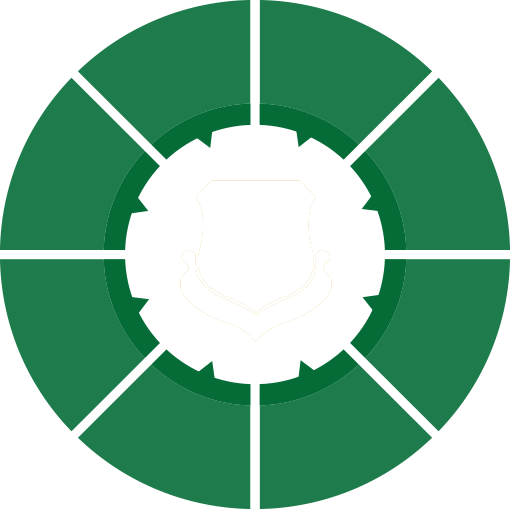
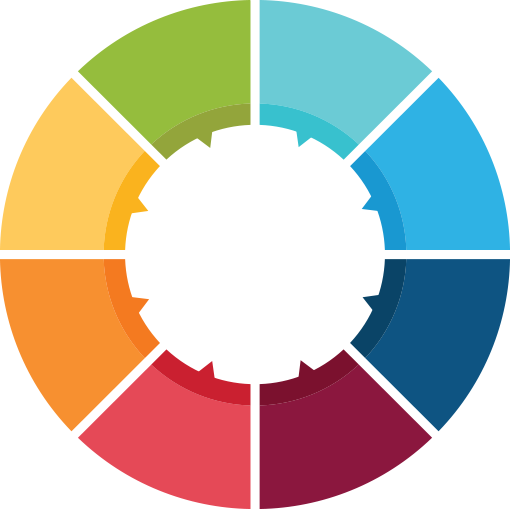
BUP update

diff --git a/bup/css/style.min.css b/bup/css/style.min.css
@@ -1,1 +1,1 @@
-@import url(https://fonts.googleapis.com/css?family=Ubuntu);.admi,.middle{text-align:center}*{position:relative;-moz-box-sizing:border-box;-webkit-box-sizing:border-box;box-sizing:border-box;margin:0;padding:0;list-style:none}body{height:100%;background:url(../images/header.png) bottom right no-repeat fixed!important;color:#fff}@media (max-width:576px){body{background:url(../images/header.png) bottom center no-repeat fixed!important}}.header-sec{position:fixed;background:url(../images/header_bg.png) top left no-repeat fixed!important;padding:15px 0;left:0;right:0;height:105px}.admi,.header .res-nav{position:absolute;right:15px}.header .fa-envelope{color:#006c32;font-size:30px;margin-top:14px}.header .fa-envelope:hover{color:#d5a929}.header .top-link{margin-top:15px;color:#006c32;font-weight:700;float:right}.header .top-link:hover{color:#d5a929}@media (max-width:576px){.header-sec{height:105px;position:absolute;background:url(../images/header_bg.png) top left no-repeat!important}.header .top-link{display:none}}.header .res-nav{font-size:30px;z-index:3;top:0;display:none;float:right}.header .res-nav a{color:#4CAF50;text-decoration:none;padding:15px;display:inline-block;text-shadow:0 1px 0 #fff}.header .res-nav a:hover{color:#d5a929}.admi{bottom:15px}.footer,.overly{left:0;right:0;bottom:0}@media (max-width:576px){.header .res-nav{display:block}.admi{position:relative;height:auto;display:none}}.logo{width:150px}.overly{position:fixed;top:0;background:rgba(0,0,0,.5);z-index:1;height:100vh;display:none}.btn-success{-webkit-border-radius:0!important;border-radius:0!important}.portal-link{padding:0;margin-bottom:15px;margin-top:35px;z-index:1}@media (max-width:576px){.portal-link{display:none;position:fixed;top:-35px;left:0;background:#4CAF50;height:100vh}}.portal-link li{padding:0;margin:0}.portal-link li a{background:-webkit-gradient(linear,left top,right top,from(#006c32),to(rgba(0,108,50,.5)));background:-webkit-linear-gradient(left,#006c32 0,rgba(0,108,50,.5) 100%);background:linear-gradient(to right,#006c32 0,rgba(0,108,50,.5) 100%);filter:progid:DXImageTransform.Microsoft.gradient( startColorstr='#006c32', endColorstr='#00006c32', GradientType=1 );display:block;padding:3px 15px;margin-bottom:5px;color:#fff;font-size:14px;text-decoration:none}.portal-link li a:hover{color:#d5a929;background:#006c32}@media (max-width:576px){.portal-link li a{padding:10px 15px;margin-bottom:1px}}.middle{max-width:400px;margin:0 auto}.middle .graph{width:400px;height:400px;position:absolute;top:0;left:0}@media (max-width:576px){.middle{margin-bottom:15px;max-width:300px}.middle .graph{width:300px;height:300px}}.middle .nav-table{width:400px;height:400px}@media (max-width:576px){.middle .nav-table{width:300px;height:300px}}.middle .nav-table td{width:25%;height:25%;font-size:13px;font-weight:600}.middle .nav-table td a{color:#d5a929;text-decoration:none;-webkit-transition:all .5s ease;transition:all .5s ease;text-shadow:1px 1px 1px #006c32}.middle .nav-table td a:hover{color:#fff;-webkit-transition:all .5s ease;transition:all .5s ease}.middle .nav-table td .img-circle{width:50%;-webkit-transform:scale(1);-ms-transform:scale(1);transform:scale(1);-webkit-transition:all .5s ease;transition:all .5s ease}.middle .nav-table td .img-circle:hover{-webkit-transform:scale(1.2);-ms-transform:scale(1.2);transform:scale(1.2);-webkit-transition:all .5s ease;transition:all .5s ease}.middle .nav-table .img-center{width:50%}.middle .nav-table .trn1{-webkit-transform:scale(1) rotate(-22deg);-ms-transform:scale(1) rotate(-22deg);transform:scale(1) rotate(-22deg);display:block;padding-right:20px}.middle .nav-table .trn2{-webkit-transform:scale(1) rotate(22deg);-ms-transform:scale(1) rotate(22deg);transform:scale(1) rotate(22deg);display:block;padding-left:20px}.middle .nav-table .trn3{-webkit-transform:scale(1) rotate(-68deg);-ms-transform:scale(1) rotate(-68deg);transform:scale(1) rotate(-68deg);display:block;padding-left:20px}.middle .nav-table .trn4{-webkit-transform:scale(1) rotate(68deg);-ms-transform:scale(1) rotate(68deg);transform:scale(1) rotate(68deg);display:block;padding-right:20px}.middle .nav-table .trn5{-webkit-transform:scale(1) rotate(-112deg);-ms-transform:scale(1) rotate(-112deg);transform:scale(1) rotate(-112deg);display:block;padding-right:20px}.middle .nav-table .trn6{-webkit-transform:scale(1) rotate(112deg);-ms-transform:scale(1) rotate(112deg);transform:scale(1) rotate(112deg);display:block;padding-left:20px}.middle .nav-table .trn7{-webkit-transform:scale(1) rotate(22deg);-ms-transform:scale(1) rotate(22deg);transform:scale(1) rotate(22deg);display:block;padding-right:20px}.middle .nav-table .trn8{-webkit-transform:scale(1) rotate(-22deg);-ms-transform:scale(1) rotate(-22deg);transform:scale(1) rotate(-22deg);display:block;padding-left:20px}@media (max-width:576px){.middle .nav-table td{font-size:10px;font-weight:900}.middle .nav-table .trn1,.middle .nav-table .trn4,.middle .nav-table .trn5,.middle .nav-table .trn7{padding-right:12px}.middle .nav-table .trn2,.middle .nav-table .trn3,.middle .nav-table .trn6,.middle .nav-table .trn8{padding-left:12px}}.admi-details p{font-size:13px}.admi-details h5{text-transform:uppercase;color:#fff}.grd-box{background:-webkit-gradient(linear,left top,left bottom,from(rgba(0,108,50,.5)),to(rgba(0,108,50,0)));background:-webkit-linear-gradient(top,rgba(0,108,50,.5) 0,rgba(0,108,50,0) 100%);background:linear-gradient(to bottom,rgba(0,108,50,.5) 0,rgba(0,108,50,0) 100%);filter:progid:DXImageTransform.Microsoft.gradient( startColorstr='#006c32', endColorstr='#00006c32', GradientType=0 )}.event-box,.event-box .events ul li{filter:progid:DXImageTransform.Microsoft.gradient( startColorstr='#00006c32', endColorstr='#006c32', GradientType=1 )}.event-box{height:100vh;position:absolute;background:-webkit-gradient(linear,left top,right top,from(rgba(0,108,50,.3)),to(rgba(0,108,50,.8)));background:-webkit-linear-gradient(left,rgba(0,108,50,.3) 0,rgba(0,108,50,.8) 100%);background:linear-gradient(to right,rgba(0,108,50,.3) 0,rgba(0,108,50,.8) 100%)}@media (max-width:576px){.event-box{position:relative;height:auto}}.event-box .events{padding:0 10px}.event-box .events ul li{margin-top:10px;background:-webkit-gradient(linear,left top,right top,from(rgba(0,108,50,.95)),to(rgba(0,108,50,.5)));background:-webkit-linear-gradient(left,rgba(0,108,50,.95) 0,rgba(0,108,50,.5) 100%);background:linear-gradient(to right,rgba(0,108,50,.95) 0,rgba(0,108,50,.5) 100%);color:#fff;cursor:pointer}.event-box .events ul li span{float:left;padding:14px 5px;background:#006c32;text-align:center;font-weight:700;color:#d5a929;min-height:76px;width:50px}.event-box .events ul li .event-msg{min-height:76px;padding-left:55px}.event-box .events ul li .event-msg p{padding:0!important;margin:1px;font-size:12px}.event-box .events ul li:hover{background:#006c32}.event-box .events ul li:hover span{background:#4CAF50;color:#fff}.box .title{background:#006c32;color:#d5a929;font-size:18px;margin:0;padding:6px 15px;text-transform:uppercase}.box .box-con{padding:5px}.box .box-con ul{margin:0;padding:0}.box .box-con ul li{list-style:none;background:rgba(0,108,50,.1);padding:2px 5px;margin-bottom:2px}.box .box-con ul li p{margin:0;font-size:13px}.box .box-con ul li:last-child{border-bottom:0}.box .link{font-size:13px}.box .link .fa{color:#006c32}.box .link ul li a{color:#006c32;text-decoration:none;-webkit-transition:.5s ease all;transition:.5s ease all}.box .link ul li a:hover{color:#000;padding-left:5px;-webkit-transition:.5s ease all;transition:.5s ease all}.box .page-item{padding:0!important;margin-bottom:0!important;border-bottom:0!important}.box .page-link{background:#006c32;border:0;color:#fff;padding:3px 10px!important;margin:0!important}.box .page-link:hover{background:#4CAF50;color:#fff}.box .active .page-link{background:#4CAF50!important}.footer{position:fixed;background:#006c32;font-size:12px;padding:5px;color:#fff}
+@import url(https://fonts.googleapis.com/css?family=Ubuntu);.admi,.middle{text-align:center}*{position:relative;-moz-box-sizing:border-box;-webkit-box-sizing:border-box;box-sizing:border-box;margin:0;padding:0;list-style:none}body{height:100%;background:url(../images/header.png) bottom right no-repeat fixed!important;color:#fff}@media (max-width:576px){body{background:url(../images/header.png) bottom center no-repeat fixed!important}}.header-sec{position:fixed;background:url(../images/header_bg.png) top left no-repeat fixed!important;padding:15px 0;left:0;right:0;height:105px}.header .fa-envelope{color:#fff;font-size:22px;margin-top:14px}.header .fa-envelope:hover{color:#2aabe2}.header .top-link{margin-top:15px;color:#2f368e;font-weight:700;float:right}.header .top-link:hover{color:#2aabe2}@media (max-width:576px){.header-sec{height:105px;position:absolute;background:url(../images/header_bg.png) top left no-repeat!important}.header .top-link{display:none}}.header .res-nav{font-size:30px;position:absolute;z-index:3;right:15px;top:0;display:none;float:right}.header .res-nav a{color:#2f368e;text-decoration:none;padding:15px;display:inline-block;text-shadow:0 1px 0 #fff}.header .res-nav a:hover{color:#fff}.admi{position:absolute;bottom:0}@media (max-width:576px){.header .res-nav{display:block}.admi{position:relative;height:auto;display:none}}.logo{width:150px}.overly{position:fixed;left:0;right:0;top:0;bottom:0;background:rgba(0,0,0,.5);z-index:1;height:100vh;display:none}.btn-success{-webkit-border-radius:0!important;border-radius:0!important}.portal-link{padding:0;margin-bottom:15px;margin-top:35px;z-index:1}@media (max-width:576px){.portal-link{display:none;position:fixed;top:-35px;left:0;background:#2f368e;height:100vh}}.portal-link li{padding:0;margin:0}.portal-link li a{background:#fff;display:block;padding:3px 15px;margin-bottom:5px;color:#fff;font-size:14px;text-decoration:none}.portal-link li a:hover{color:#fff;background:#2aabe2}.event-box,.event-box .events ul li,.grd-box{background:rgba(255,255,255,.5)}@media (max-width:576px){.portal-link li a{padding:10px 15px;margin-bottom:1px}}.middle{max-width:400px;margin:0 auto}.middle .graph{width:400px;height:400px;position:absolute;top:0;left:0}@media (max-width:576px){.middle{margin-bottom:15px;max-width:300px}.middle .graph{width:300px;height:300px}}.middle .nav-table{width:400px;height:400px}@media (max-width:576px){.middle .nav-table{width:300px;height:300px}}.middle .nav-table td{width:25%;height:25%;font-size:13px;font-weight:600}.middle .nav-table td a{color:#fff;text-decoration:none;-webkit-transition:all .5s ease;transition:all .5s ease;text-shadow:1px 1px 1px #000}.middle .nav-table td a:hover{color:#fff;-webkit-transition:all .5s ease;transition:all .5s ease}.middle .nav-table td .img-circle{width:65%;-webkit-transform:scale(1);-ms-transform:scale(1);transform:scale(1);-webkit-transition:all .5s ease;transition:all .5s ease}.middle .nav-table td .img-circle:hover{-webkit-transform:scale(1);-ms-transform:scale(1);transform:scale(1);-webkit-transition:all .5s ease;transition:all .5s ease}.middle .nav-table .img-center{width:50%}.middle .nav-table .trn1{-webkit-transform:scale(1) rotate(-22deg);-ms-transform:scale(1) rotate(-22deg);transform:scale(1) rotate(-22deg);display:block;padding-right:20px}.middle .nav-table .trn2{-webkit-transform:scale(1) rotate(22deg);-ms-transform:scale(1) rotate(22deg);transform:scale(1) rotate(22deg);display:block;padding-left:20px}.middle .nav-table .trn3{-webkit-transform:scale(1) rotate(-68deg);-ms-transform:scale(1) rotate(-68deg);transform:scale(1) rotate(-68deg);display:block;padding-left:20px}.middle .nav-table .trn4{-webkit-transform:scale(1) rotate(68deg);-ms-transform:scale(1) rotate(68deg);transform:scale(1) rotate(68deg);display:block;padding-right:20px}.middle .nav-table .trn5{-webkit-transform:scale(1) rotate(-112deg);-ms-transform:scale(1) rotate(-112deg);transform:scale(1) rotate(-112deg);display:block;padding-right:20px}.middle .nav-table .trn6{-webkit-transform:scale(1) rotate(112deg);-ms-transform:scale(1) rotate(112deg);transform:scale(1) rotate(112deg);display:block;padding-left:20px}.middle .nav-table .trn7{-webkit-transform:scale(1) rotate(22deg);-ms-transform:scale(1) rotate(22deg);transform:scale(1) rotate(22deg);display:block;padding-right:20px}.middle .nav-table .trn8{-webkit-transform:scale(1) rotate(-22deg);-ms-transform:scale(1) rotate(-22deg);transform:scale(1) rotate(-22deg);display:block;padding-left:20px}@media (max-width:576px){.middle .nav-table td{font-size:10px;font-weight:900}.middle .nav-table .trn1,.middle .nav-table .trn4,.middle .nav-table .trn5,.middle .nav-table .trn7{padding-right:12px}.middle .nav-table .trn2,.middle .nav-table .trn3,.middle .nav-table .trn6,.middle .nav-table .trn8{padding-left:12px}}.admi-details p{font-size:13px}.admi-details h5{text-transform:uppercase;color:#39c1ce}.event-box{height:100vh;position:absolute;-webkit-box-shadow:-1px -1px 100px #ccc;box-shadow:-1px -1px 100px #ccc}@media (max-width:576px){.event-box{position:relative;height:auto}}.event-box .events{padding:0 10px}.event-box .events ul li{margin-top:10px;-webkit-box-shadow:0 0 10px #ccc;box-shadow:0 0 10px #ccc;color:#000;cursor:pointer}.event-box .events ul li span{float:left;padding:18px 5px;background:#2aabe2;text-align:center;font-weight:700;color:#fff;min-height:90px;width:50px}.event-box .events ul li .event-msg{min-height:90px;padding-left:55px}.event-box .events ul li .event-msg p{padding:0!important;margin:1px;font-size:14px}.event-box .events ul li:hover{background:#fff}.box .title,.event-box .events ul li:hover span{background:#39c1ce;color:#fff}.box{-webkit-box-shadow:0 0 10px #ccc;box-shadow:0 0 10px #ccc}.box .title{font-size:18px;margin:0;padding:0;text-transform:uppercase;height:30px}.box .title img{float:left;width:30px}.box .title span{padding:6px 15px;display:inline-block}.box .box-con{padding:5px;min-height:125px}.box .box-con ul{margin:0;padding:0}.box .box-con ul li{list-style:none;background:#fff;padding:2px 5px;margin-bottom:2px}.box .box-con ul li p{margin:0;font-size:13px}.box .box-con ul li:last-child{border-bottom:0}.box .box-con .nav-pagination{position:absolute;bottom:5px;right:5px}.box .link{font-size:13px}.box .link .fa{color:#2aabe2}.box .link ul li a{color:#000;text-decoration:none;-webkit-transition:.5s ease all;transition:.5s ease all}.box .link ul li a:hover{color:#000;padding-left:5px;-webkit-transition:.5s ease all;transition:.5s ease all}.box .page-item{padding:0!important;margin-bottom:0!important;border-bottom:0!important}.box .page-link{background:#39c1ce;border:0;color:#fff;padding:1px 10px!important;margin:0!important}.box .page-link:hover{background:#2f368e;color:#fff}.box .active .page-link{background:#2f368e!important}.bottom-sec{position:relative;bottom:0}.footer{position:fixed;left:0;right:0;bottom:0;background:#39c1ce;font-size:12px;padding:5px;color:#fff}

diff --git a/bup/index.html b/bup/index.html
@@ -1,1 +1,19 @@
-<!DOCTYPE html><html lang="en"><head><meta charset="UTF-8"><meta name="viewport" content="width=device-width,initial-scale=1"><meta http-equiv="X-UA-Compatible" content="ie=edge"><title>BUP Central Portal</title><link rel="shortcut icon" href="images/logo.png" type="image/x-icon"><link rel="stylesheet" href="css/style.min.css"><link rel="stylesheet" href="vendors/css/bootstrap.min.css"><link rel="stylesheet" href="css/animate.min.css"><script src="https://use.fontawesome.com/90cc063d88.js"></script></head><body><section class="main-body"><div class="header-sec"></div><div class="container-fluid"><div class="row"><div class="col-lg-9"><div class="header"><div class="row"><div class="col-lg-12"><a href="#"><i class="fa fa-envelope"></i></a> <a class="top-link" target="blank" href="http://bup.edu.bd/"><i class="fa fa-external-link"></i> www.bup.edu.bd</a><div class="res-nav"><a class="resnav" href="#"><i class="fa fa-bars"></i></a></div></div></div></div><div class="row"><div class="col-lg-3"><div class="box"><div class="overly"></div><ul class="portal-link animated slideInLeft"><li><a href="#"><i class="fa fa-angle-right"></i> <span>UCAM</span></a></li><li><a href="#"><i class="fa fa-angle-right"></i> <span>Inventory Management System (IMS)</span></a></li><li><a href="#"><i class="fa fa-angle-right"></i> <span>Finance Management System (FMS)</span></a></li><li><a href="#"><i class="fa fa-angle-right"></i> <span>Vehicle Requisiton System (VRS)</span></a></li><li><a href="#"><i class="fa fa-angle-right"></i> <span>Addmission Site</span></a></li><li><a href="#"><i class="fa fa-angle-right"></i> <span>Internal Cloud</span></a></li><li><a href="#"><i class="fa fa-angle-right"></i> <span>BUP Website</span></a></li><li><a href="#"><i class="fa fa-angle-right"></i> <span>BUP Webmail</span></a></li><li><a href="#"><i class="fa fa-angle-right"></i> <span>Mass Managment</span></a></li><li><a href="#"><i class="fa fa-angle-right"></i> <span>HRM</span></a></li></ul></div></div><div class="col-lg-6"><div class="middle animated zoomIn"><img class="graph" src="images/center_2.png" alt=""><table class="nav-table" border="0" width="100%"><tr><td></td><td><a href="#"><span class="trn1">Inventory Management System</span></a></td><td><a href="#"><span class="trn2">Finance Management System</span></a></td><td></td></tr><tr><td><a href="#"><span class="trn3">UCAM</span></a></td><td colspan="2" rowspan="2" class="img-center"><img class="img-circle" width="100%" src="images/logo.png" alt=""></td><td><a href="#"><span class="trn4">Vehicle Requisiton System</span></a></td></tr><tr><td><a href="#"><span class="trn5">Mass Managment</span></a></td><td><a href="#"><span class="trn6">Addmission<br>site</span></a></td></tr><tr><td></td><td><a href="#"><span class="trn7">Internal<br>Cloud</span></a></td><td><a href="#"><span class="trn8">HRM</span></a></td><td></td></tr></table></div></div><div class="col-lg-3"><div class="box admi grd-box"><!-- <h3 class="title">Admission</h3> --><div class="box-con"><div class="admi-details"><h5>Admission</h5><p>Application for undergraduate admission usually start from September of every year, we are taking intakes once in a year.</p><a class="btn btn-success btn-sm" href="#">Find Details</a></div></div></div></div></div><div class="row animated slideInUp"><div class="col-lg-4"><div class="box grd-box"><h3 class="title">Downloads</h3><div class="box-con"><div class="link"><ul><li><i class="fa fa-arrow-circle-right"></i> <a href="#">BUP Day Care Centre Admission Form</a></li><li><i class="fa fa-arrow-circle-right"></i> <a href="#">Vehicle Sticker Collection Procedure</a></li><li><i class="fa fa-arrow-circle-right"></i> <a href="#">BUP android Apps</a></li><li><i class="fa fa-arrow-circle-right"></i> <a href="#">BUP iphone Apps</a></li></ul></div></div></div></div><div class="col-lg-8"><div class="box grd-box"><h3 class="title">Important Messages</h3><div class="box-con"><ul><li><p>Seminar on "Cyber Security and Digital Signature" will be held tomorrow (05 May 2015) at 1000 hrs in Bijoy Auditorium.</p></li><li><p>For tomorrow's program at 'Senakunja'. Interested Defence Officers and invited guests are requested to coordinate with MT by 0900hrs tomorrow for vehicle</p></li></ul><nav aria-label="Page navigation example"><ul class="pagination pagination-sm justify-content-end"><li class="page-item"><a class="page-link" href="#" tabindex="-1">Prev</a></li><li class="page-item"><a class="page-link" href="#">1</a></li><li class="page-item active"><a class="page-link" href="#">2</a></li><li class="page-item"><a class="page-link" href="#">3</a></li><li class="page-item"><a class="page-link" href="#">Next</a></li></ul></nav></div></div></div></div></div><div class="col-lg-3"><div class="event-box box animated slideInRight"><h3 class="title">Important Event</h3><div class=""><div class="events"><ul><li><span class="date">04<br>JAN</span><div class="event-msg"><p>Inauguration of BUP Miscellaneous Development Projects</p><p><small>Time: 1000 hrs</small></p><p><small>Venue: BUP Campus.</small></p></div></li><li><span class="date">14<br>JAN</span><div class="event-msg"><p>Inauguration of BUP Miscellaneous Development Projects</p><p><small>Time: 1000 hrs</small></p><p><small>Venue: BUP Campus.</small></p></div></li><li><span class="date">10<br>FEB</span><div class="event-msg"><p>Inauguration of BUP Miscellaneous Development Projects</p><p><small>Time: 1000 hrs</small></p><p><small>Venue: BUP Campus.</small></p></div></li><li><span class="date">05<br>MAR</span><div class="event-msg"><p>Inauguration of BUP Miscellaneous Development Projects</p><p><small>Time: 1000 hrs</small></p><p><small>Venue: BUP Campus.</small></p></div></li><li><span class="date">09<br>MAR</span><div class="event-msg"><p>Inauguration of BUP Miscellaneous Development Projects</p><p><small>Time: 1000 hrs</small></p><p><small>Venue: BUP Campus.</small></p></div></li><li><span class="date">04<br>APR</span><div class="event-msg"><p>Inauguration of BUP Miscellaneous Development Projects</p><p><small>Time: 1000 hrs</small></p><p><small>Venue: BUP Campus.</small></p></div></li><li><span class="date">24<br>MAY</span><div class="event-msg"><p>Inauguration of BUP Miscellaneous Development Projects</p><p><small>Time: 1000 hrs</small></p><p><small>Venue: BUP Campus.</small></p></div></li></ul></div></div></div></div></div></div><!-- /container --></section><br><section class="footer"><div class="container-fluid"><div class="row"><div class="col-lg-6">Copyright &copy; 2018 - All right reserved</div><div class="col-lg-6"></div></div></div></section><!-- script --><script src="vendors/jquery/jquery.min.js"></script><script src="js/main.js"></script><script src="https://cdnjs.cloudflare.com/ajax/libs/popper.js/1.11.0/umd/popper.min.js" integrity="sha384-b/U6ypiBEHpOf/4+1nzFpr53nxSS+GLCkfwBdFNTxtclqqenISfwAzpKaMNFNmj4" crossorigin="anonymous"></script><script src="vendors/js/bootstrap.min.js"></script></body></html>
+<!DOCTYPE html><html lang="en"><head><meta charset="UTF-8"><meta name="viewport" content="width=device-width,initial-scale=1"><meta http-equiv="X-UA-Compatible" content="ie=edge"><title>BUP Central Portal</title><link rel="shortcut icon" href="images/logo.png" type="image/x-icon"><link rel="stylesheet" href="css/style.min.css"><link rel="stylesheet" href="vendors/css/bootstrap.min.css"><link rel="stylesheet" href="css/animate.min.css"><script src="https://use.fontawesome.com/90cc063d88.js"></script></head><body><section class="main-body"><div class="header-sec"></div><div class="container-fluid"><div class="row"><div class="col-lg-9"><div class="header"><div class="row"><div class="col-lg-12"><a href="#"><i class="fa fa-envelope"></i></a> <a class="top-link" target="blank" href="http://bup.edu.bd/"><i class="fa fa-external-link"></i> www.bup.edu.bd</a><!-- <div class="res-nav">
+                  <a class="resnav" href="#">
+                    <i class="fa fa-bars"></i>
+                  </a>
+                </div> --></div></div></div><div class="row"><div class="col-lg-3"><div class="box admi grd-box"><div class="box-con"><div class="admi-details"><h5>Admission</h5><p>Application for undergraduate admission usually start from September of every year, we are taking intakes once in a year.</p><a class="btn btn-success btn-sm" href="#">Find Details</a></div></div></div><!-- <div class="box">
+                <div class="overly"></div>
+                <ul class="portal-link animated slideInLeft">
+                    <li><a href="#"><i class="fa fa-angle-right"></i> <span>UCAM</span></a></li>
+                    <li><a href="#"><i class="fa fa-angle-right"></i> <span>Inventory Management System (IMS)</span></a></li>
+                    <li><a href="#"><i class="fa fa-angle-right"></i> <span>Finance Management System (FMS)</span></a></li>
+                    <li><a href="#"><i class="fa fa-angle-right"></i> <span>Vehicle Requisiton System (VRS)</span></a></li>
+                    <li><a href="#"><i class="fa fa-angle-right"></i> <span>Addmission Site</span></a></li>
+                    <li><a href="#"><i class="fa fa-angle-right"></i> <span>Internal Cloud</span></a></li>
+                    <li><a href="#"><i class="fa fa-angle-right"></i> <span>BUP Website</span></a></li>
+                    <li><a href="#"><i class="fa fa-angle-right"></i> <span>BUP Webmail</span></a></li>
+                    <li><a href="#"><i class="fa fa-angle-right"></i> <span>Mass Managment</span></a></li>
+                    <li><a href="#"><i class="fa fa-angle-right"></i> <span>HRM</span></a></li>
+                  </ul>
+              </div> --></div><div class="col-lg-6"><div class="middle animated zoomIn"><img class="graph" src="images/center_2.png" alt=""><table class="nav-table" border="0" width="100%"><tr><td></td><td><a href="#"><span class="trn1">Inventory Management System</span></a></td><td><a href="#"><span class="trn2">Finance Management System</span></a></td><td></td></tr><tr><td><a href="#"><span class="trn3">UCAM</span></a></td><td colspan="2" rowspan="2" class="img-center"><img class="img-circle" width="100%" src="images/logo.png" alt=""></td><td><a href="#"><span class="trn4">Vehicle Requisiton System</span></a></td></tr><tr><td><a href="#"><span class="trn5">Mass Managment</span></a></td><td><a href="#"><span class="trn6">Addmission<br>site</span></a></td></tr><tr><td></td><td><a href="#"><span class="trn7">Internal<br>Cloud</span></a></td><td><a href="#"><span class="trn8">HRM</span></a></td><td></td></tr></table></div></div><div class="col-lg-3"></div></div><br><div class="row animated slideInUp bottom-sec"><div class="col-lg-4"><div class="box grd-box"><h3 class="title"><img src="images/icon.png" alt=""> <span>Downloads</span></h3><div class="box-con"><div class="link"><ul><li><i class="fa fa-arrow-circle-right"></i> <a href="#">BUP Day Care Centre Admission Form</a></li><li><i class="fa fa-arrow-circle-right"></i> <a href="#">Vehicle Sticker Collection Procedure</a></li><li><i class="fa fa-arrow-circle-right"></i> <a href="#">BUP android Apps</a></li></ul></div><nav class="nav-pagination" aria-label="Page navigation example"><ul class="pagination pagination-sm justify-content-end"><li class="page-item"><a class="page-link" href="#" tabindex="-1">Prev</a></li><li class="page-item"><a class="page-link" href="#">1</a></li><li class="page-item active"><a class="page-link" href="#">2</a></li><li class="page-item"><a class="page-link" href="#">3</a></li><li class="page-item"><a class="page-link" href="#">Next</a></li></ul></nav></div></div></div><div class="col-lg-8"><div class="box grd-box"><h3 class="title"><img src="images/icon.png" alt=""> <span>Important Messages</span></h3><div class="box-con"><ul><li><p>Seminar on "Cyber Security and Digital Signature" will be held tomorrow (05 May 2015) at 1000 hrs in Bijoy Auditorium.</p></li><li><p>For tomorrow's program at 'Senakunja'. Interested Defence Officers and invited guests are requested to coordinate with MT by 0900hrs tomorrow for vehicle</p></li></ul><nav class="nav-pagination" aria-label="Page navigation example"><ul class="pagination pagination-sm justify-content-end"><li class="page-item"><a class="page-link" href="#" tabindex="-1">Prev</a></li><li class="page-item"><a class="page-link" href="#">1</a></li><li class="page-item active"><a class="page-link" href="#">2</a></li><li class="page-item"><a class="page-link" href="#">3</a></li><li class="page-item"><a class="page-link" href="#">Next</a></li></ul></nav></div></div></div></div></div><div class="col-lg-3"><div class="event-box box animated slideInRight"><h3 class="title"><img src="images/icon.png" alt=""> <span>Important Event</span></h3><div class=""><div class="events"><ul><li><span class="date">04<br>JAN</span><div class="event-msg"><p>Inauguration of BUP Miscellaneous Development Projects</p><p><small><strong>Time:</strong> 1000 hrs <strong>Venue:</strong> BUP Campus.</small></p></div></li><li><span class="date">10<br>FEB</span><div class="event-msg"><p>Inauguration of BUP Miscellaneous Development Projects</p><p><small><strong>Time:</strong> 1000 hrs <strong>Venue:</strong> BUP Campus.</small></p></div></li><li><span class="date">05<br>MAR</span><div class="event-msg"><p>Inauguration of BUP Miscellaneous Development Projects</p><p><small><strong>Time:</strong> 1000 hrs <strong>Venue:</strong> BUP Campus.</small></p></div></li><li><span class="date">09<br>MAR</span><div class="event-msg"><p>Inauguration of BUP Miscellaneous Development Projects</p><p><small><strong>Time:</strong> 1000 hrs <strong>Venue:</strong> BUP Campus.</small></p></div></li><li><span class="date">04<br>APR</span><div class="event-msg"><p>Inauguration of BUP Miscellaneous Development Projects</p><p><small><strong>Time:</strong> 1000 hrs <strong>Venue:</strong> BUP Campus.</small></p></div></li><li><span class="date">24<br>MAY</span><div class="event-msg"><p>Inauguration of BUP Miscellaneous Development Projects</p><p><small><strong>Time:</strong> 1000 hrs <strong>Venue:</strong> BUP Campus.</small></p></div></li></ul></div></div></div></div></div></div><!-- /container --></section><br><section class="footer"><div class="container-fluid"><div class="row"><div class="col-lg-6">Copyright &copy; 2018 - All right reserved</div><div class="col-lg-6"></div></div></div></section><!-- script --><script src="vendors/jquery/jquery.min.js"></script><script src="js/main.js"></script><script src="https://cdnjs.cloudflare.com/ajax/libs/popper.js/1.11.0/umd/popper.min.js" integrity="sha384-b/U6ypiBEHpOf/4+1nzFpr53nxSS+GLCkfwBdFNTxtclqqenISfwAzpKaMNFNmj4" crossorigin="anonymous"></script><script src="vendors/js/bootstrap.min.js"></script></body></html>
